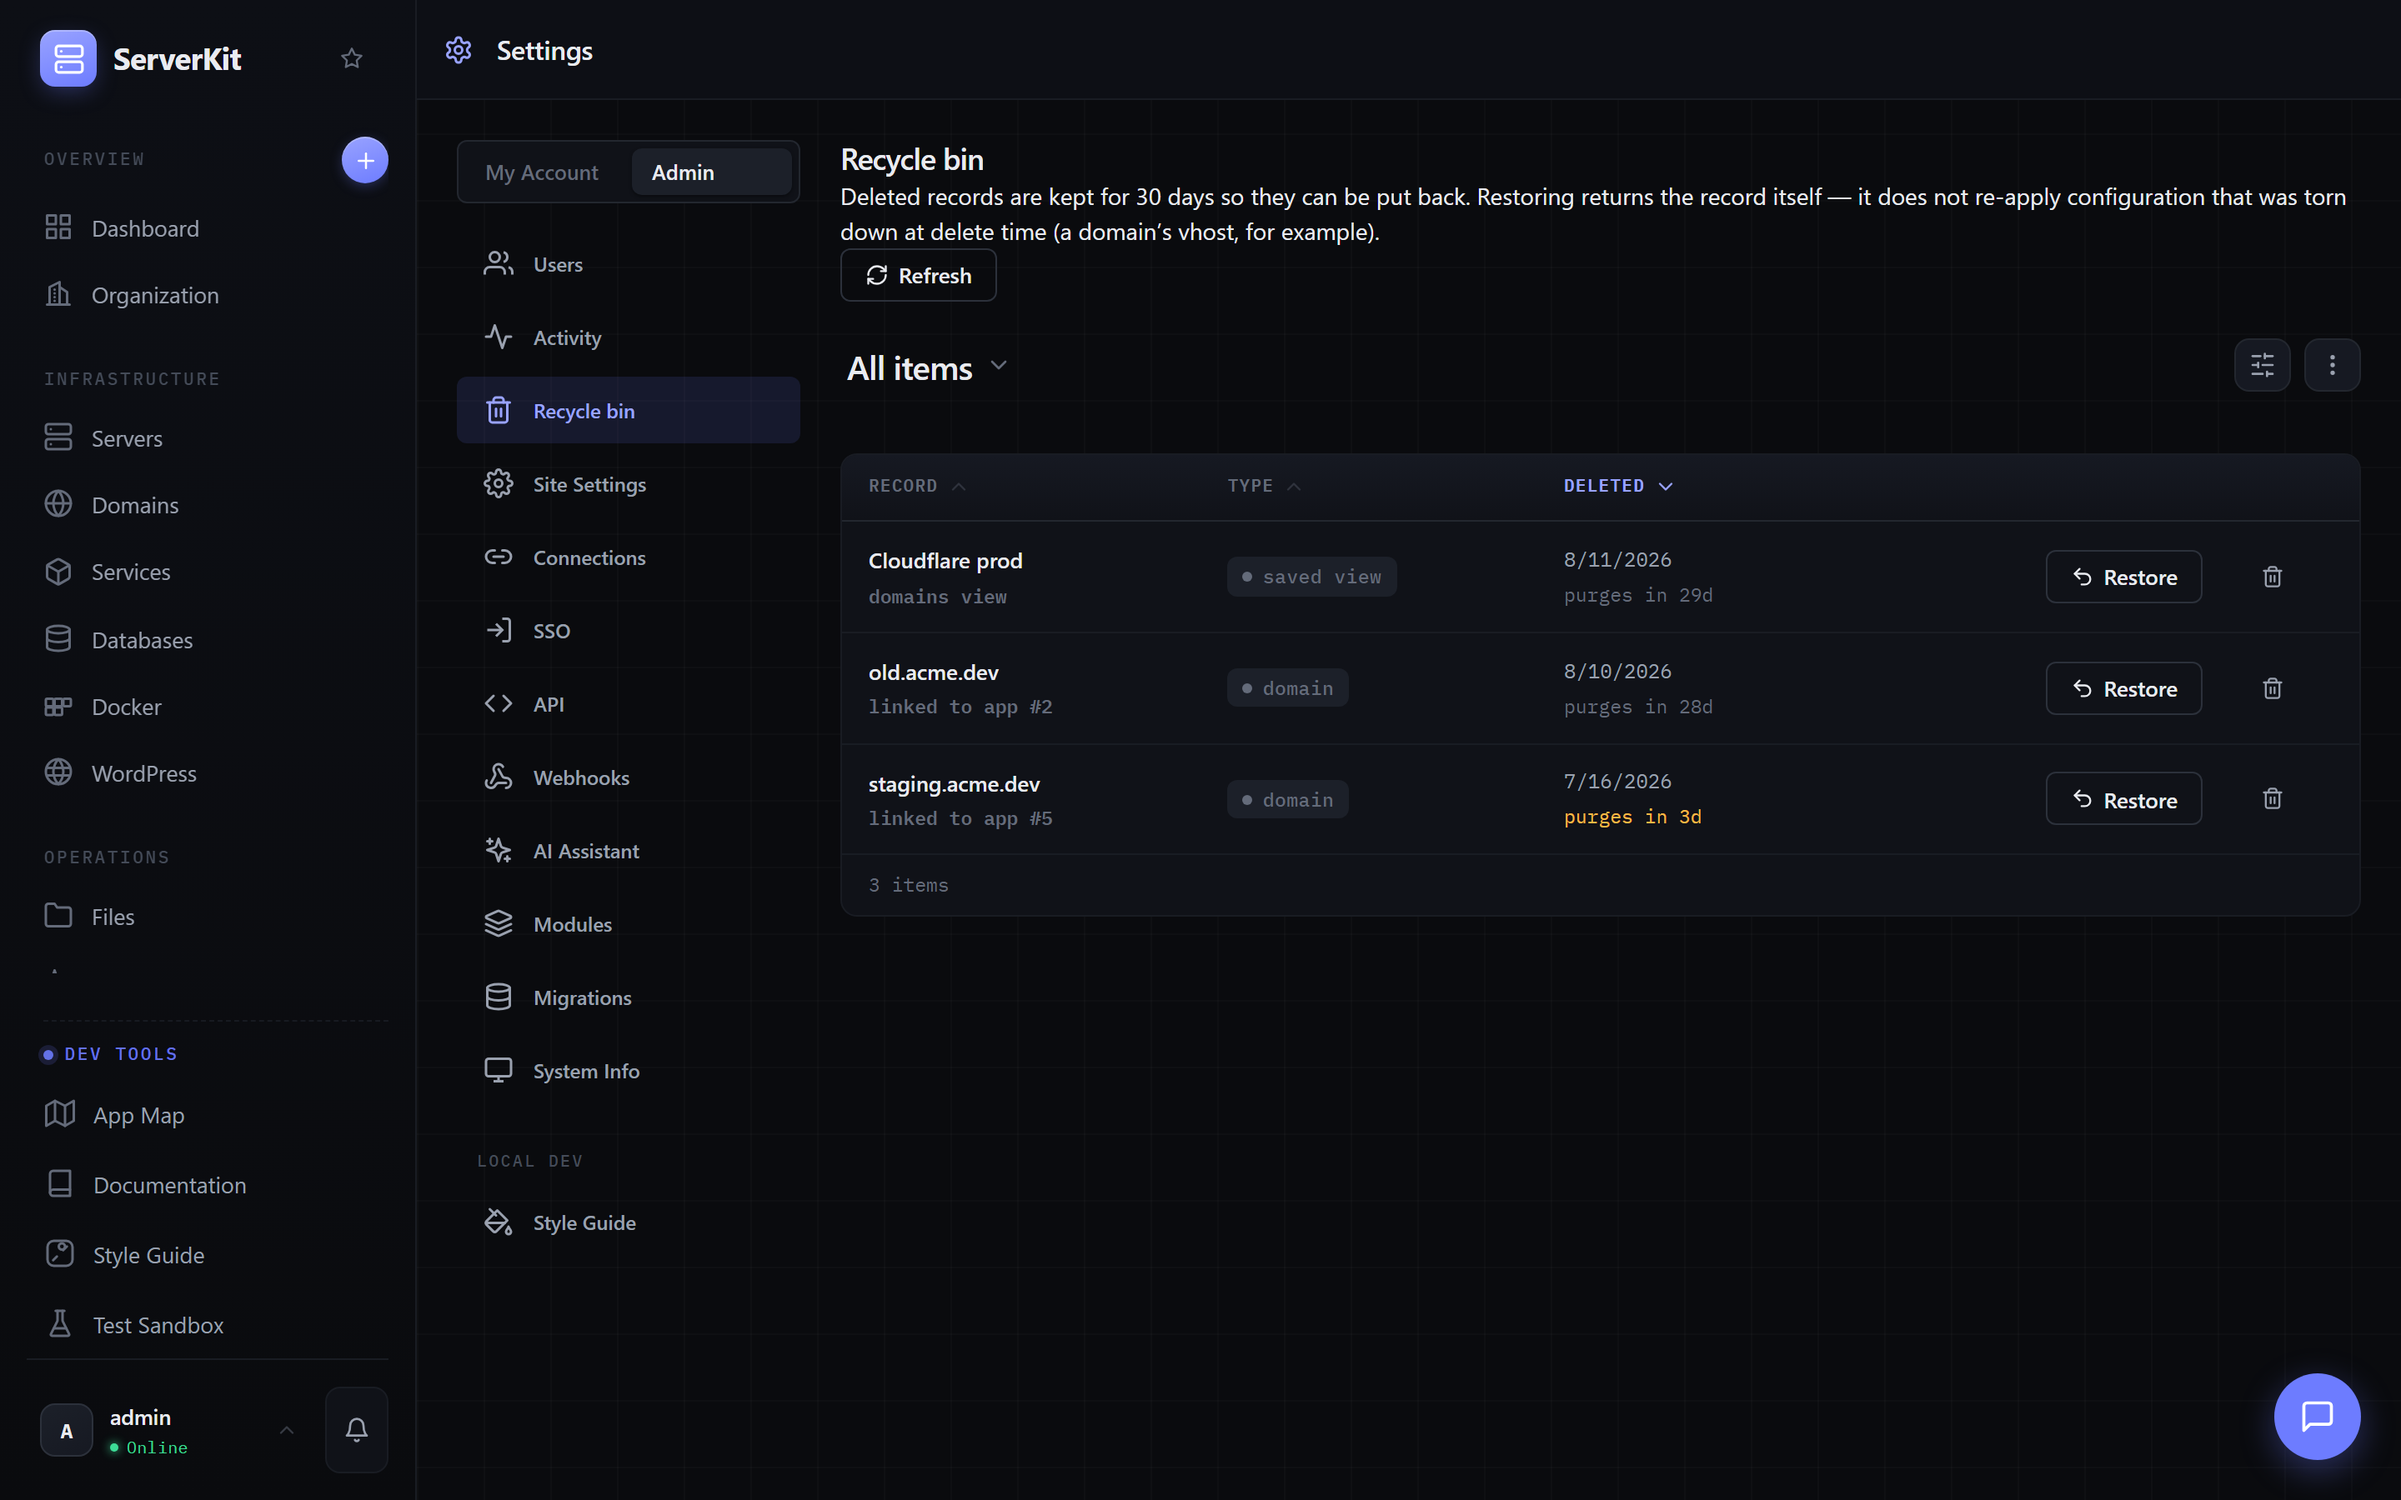
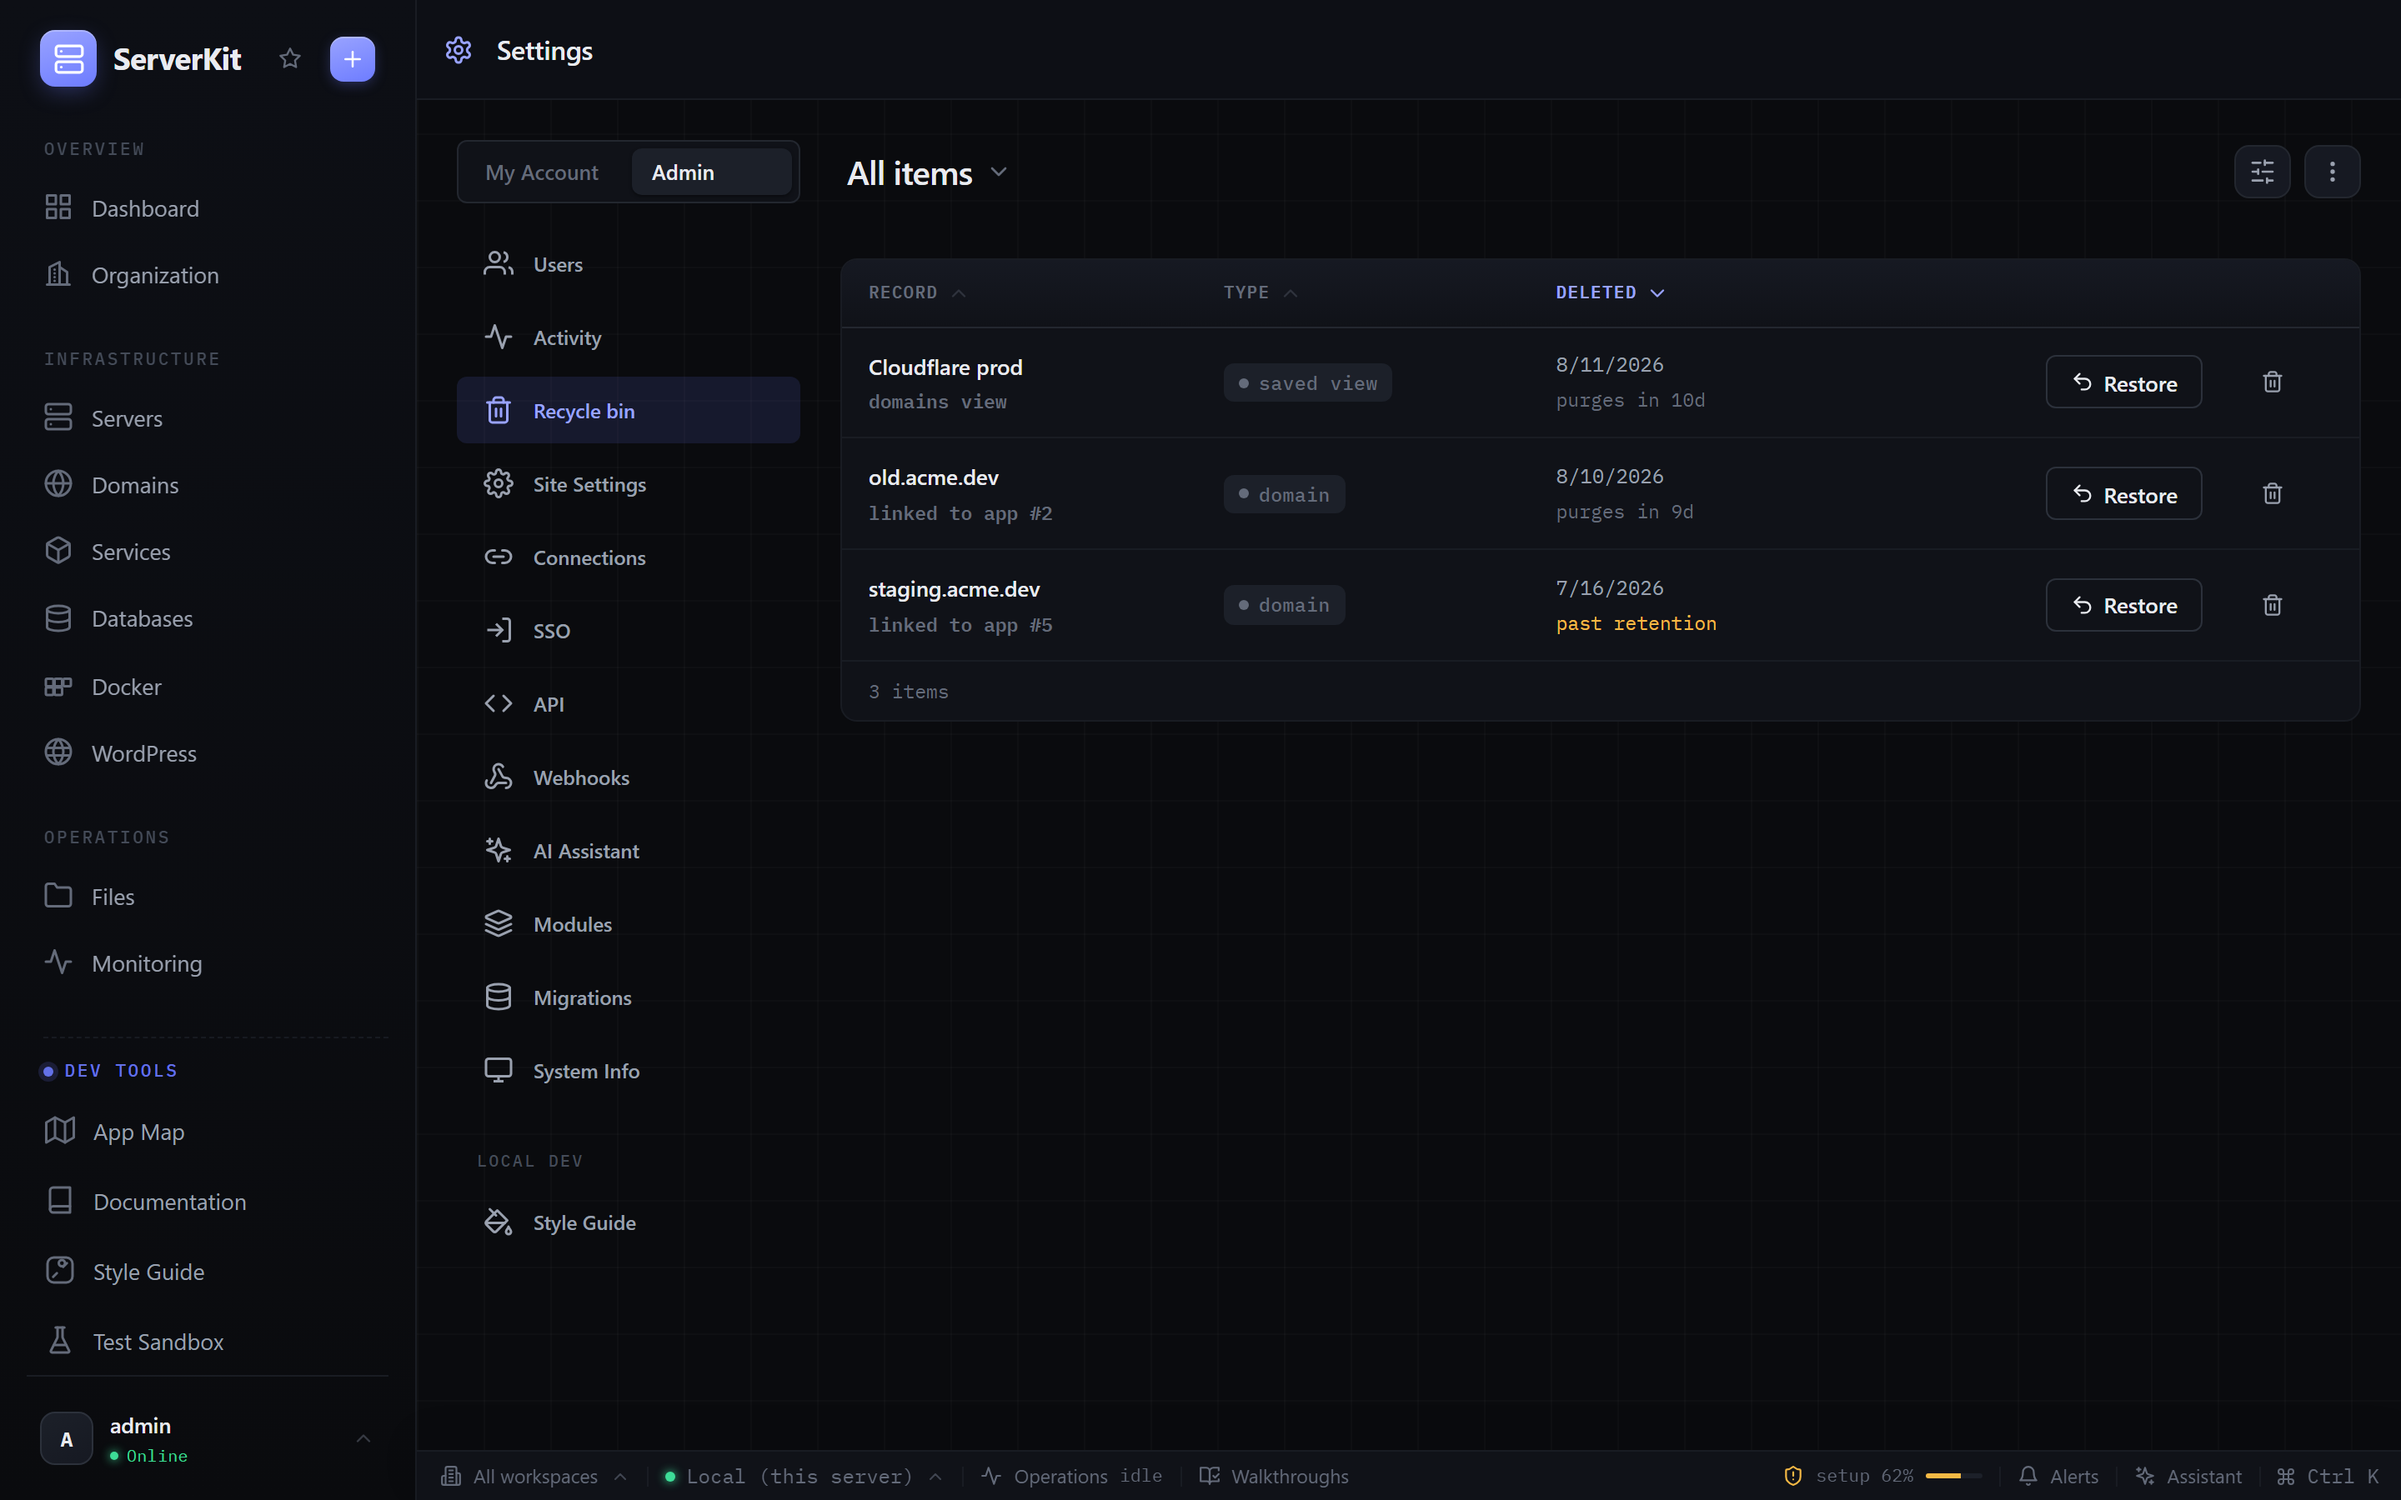
refactor(recycle-bin): drop the page-local header
The tab-local title, retention blurb and standalone Refresh button
duplicated chrome the grid already provides (Refresh data lives in the
grid tools menu; per-row 'purges in Xd' carries the retention signal).
The page now leads with the view picker and table like other grids.

diff --git a/frontend/src/components/settings/RecycleBinTab.jsx b/frontend/src/components/settings/RecycleBinTab.jsx
@@ -1,5 +1,5 @@
 import { useCallback, useEffect, useMemo, useState } from 'react';
-import { Trash2, Undo2, RefreshCw } from 'lucide-react';
+import { Trash2, Undo2 } from 'lucide-react';
 import api from '@/services/api';
 import { useToast } from '@/contexts/ToastContext';
 import { useAuth } from '@/contexts/AuthContext';
@@ -228,18 +228,6 @@ export default function RecycleBinTab() {
 
     return (
         <div className="settings-section recyclebin">
-            <div className="settings-section__head">
-                <div>
-                    <h2>{t('app.recycleBinTab.recycleBin', 'Recycle bin')}</h2>
-                    <p className="settings-section__hint">
-                        {t('app.recycleBinTab.deletedRecordsAreKeptFor', 'Deleted records are kept for')} {retentionDays} {t('app.recycleBinTab.daysSoTheyCanBePut', 'days so they can be put back. Restoring returns the record itself — it does not re-apply configuration that was torn down at delete time (a domain’s vhost, for example).')}
-                    </p>
-                </div>
-                <Button variant="outline" size="sm" onClick={load} disabled={loading}>
-                    <RefreshCw size={15} /> {t('common.actions.refresh', 'Refresh')}
-                </Button>
-            </div>
-
             {loading ? (
                 <EmptyState loading loadingVariant="table" title={t('app.recycleBinTab.loadingDeletedRecords', 'Loading deleted records…')} />
             ) : items.length === 0 ? (
@@ -250,9 +238,6 @@ export default function RecycleBinTab() {
                 />
             ) : (
                 <>
-                    {/* The section's h2 above stays put — it heads the
-                        retention explanation as much as the table, so the
-                        picker sits with the table it actually belongs to. */}
                     <GridViewPicker
                         views={chrome.views}
                         label="items"
